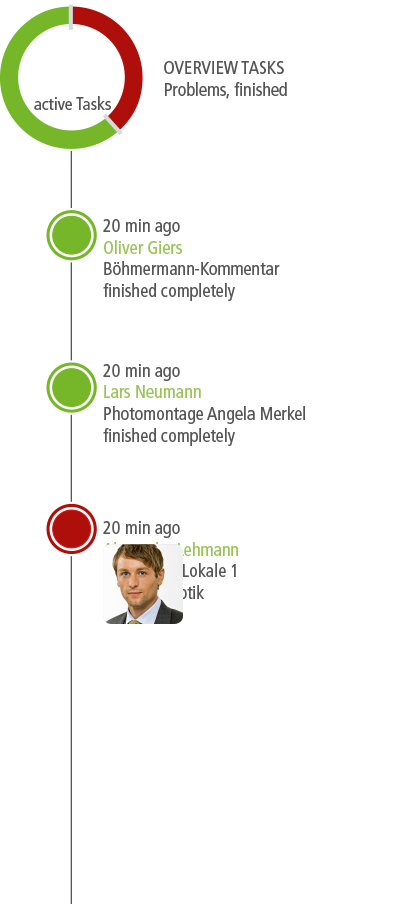
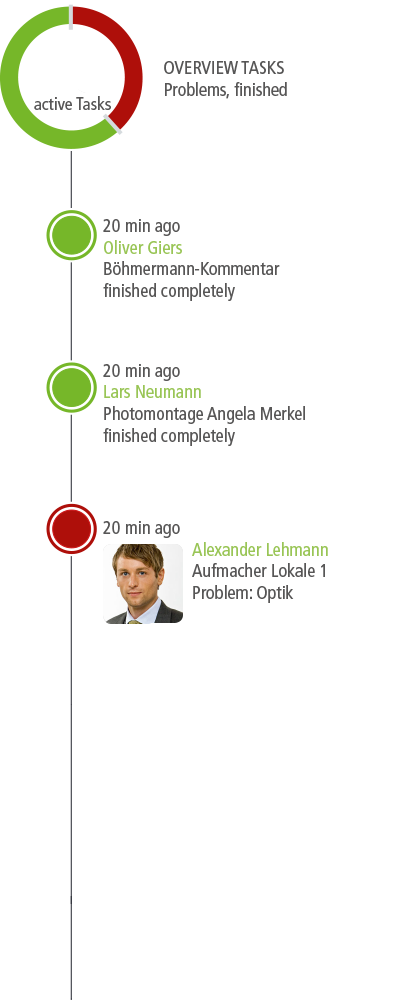
styling bigsccreen

diff --git a/frontend/css/styles.css b/frontend/css/styles.css
@@ -291,8 +291,8 @@ sidebar.right {
 }
 sidebar.right div {
   position: relative;
-  top: 20px;
-  left: 50px;
+  top: 15px;
+  left: -5px;
   font-size: 50px;
   color: #666;
 }
